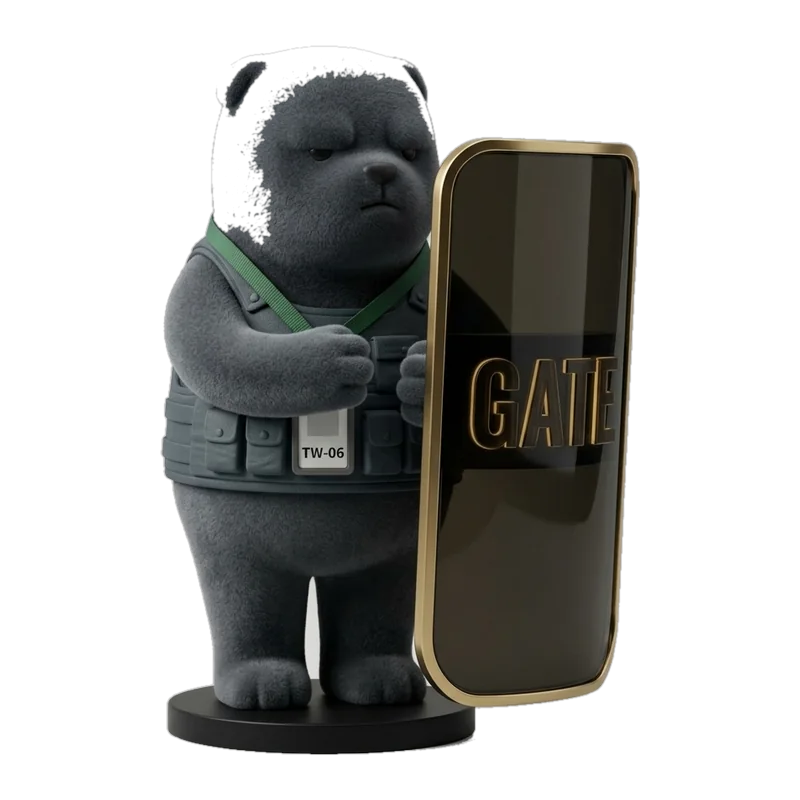
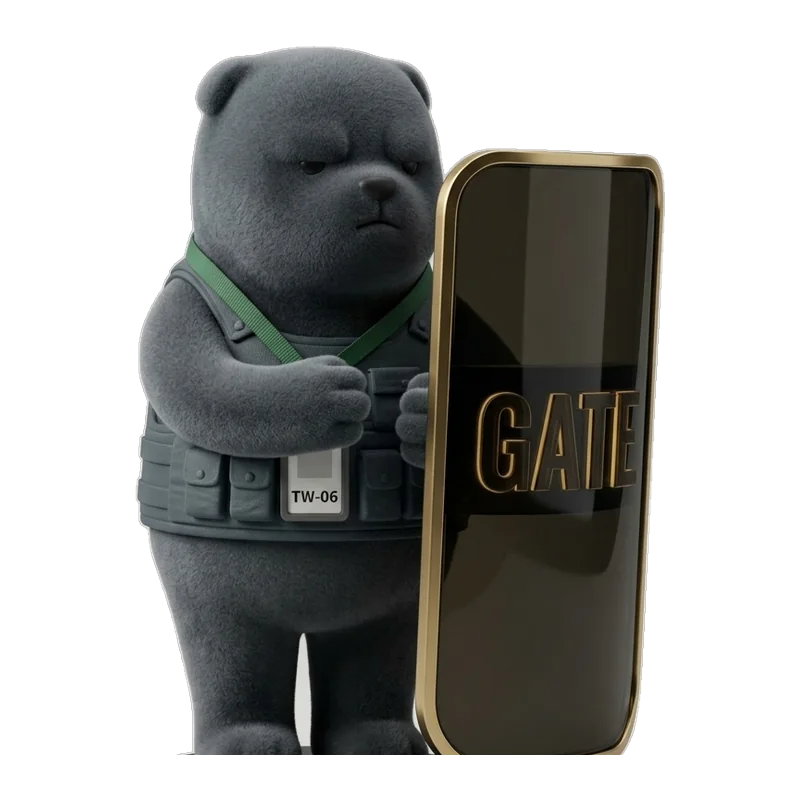
fix(visual): 修复10只角色穿孔透底、腿间背景残斑并重做TW-09工牌绒绒形象

Changed region(s): [[0.1562, 0.0312, 0.8438, 0.9688]]

diff --git a/docs/DESIGN_SYSTEM_B_POSTER.md b/docs/DESIGN_SYSTEM_B_POSTER.md
@@ -265,4 +265,22 @@ if (image) {
 ```
 
 ---
-*本规范由视觉负责人（designer）制定，锁定 B 方向作为全量制作唯一视觉依据。*
+
+## 九、角色透明素材生产与终审门禁标准 (Production & QA Gates)
+
+为杜绝亮黄海报底色（`#EBFB3B`）穿透潮玩手办浅色毛发、五官或工牌，全量 WebP 透明素材生产与验收执行以下硬性标准：
+
+1. **梯度城墙阻断与实心闭合 (Gradient Boundary & Solid Filling)**：
+   - 采用 Sobel 边缘梯度城墙物理阻断背景泛洪，防止外部背景向浅色/米白绒毛及高光五官倒灌；
+   - 对主体内部区域执行 `binary_fill_holes` 算法实心闭合，确保面部、胸前白色工牌、腹部浅毛 100% 实心（Alpha = 255）；
+2. **内腔死角透底与杂点清除 (Cavity Flooding & Stamp Removal)**：
+   - 双腿夹缝等闭合死角必须注入内腔种子彻底打通背景，严禁残留棚拍灰底杂斑；
+   - 定向擦除脚边 AI 生成的假印章（如 TW-10 假红章）与悬浮孤立噪点（如 TW-07 喇叭外白点）；
+3. **极窄抗锯齿与体积控制 (Feathering & File Size)**：
+   - 半透明过渡像素（Alpha $\in [1, 254]$）严格限制在总像素的 5% 以内（当前实测 1.37% ~ 4.82%），仅保留 1~2 像素亚像素抗锯齿；
+   - 800×800 尺寸下单张 WebP 质量压缩至 30 KB ~ 70 KB（严控在 150 KB 预算之内）；
+4. **三底验收矩阵 (Tri-Background Verification)**：
+   - 所有素材必须通过白底（`#FFFFFF`）、黄底（`#EBFB3B`）、黑底（`#0A0A0A`）三底大矩阵全面审查，在亮黄底色下无任何泛黄透色与边缘脏轮廓。
+
+---
+*本规范由视觉负责人（designer）制定并持续维护，锁定 B 方向作为全量制作唯一视觉依据。*
